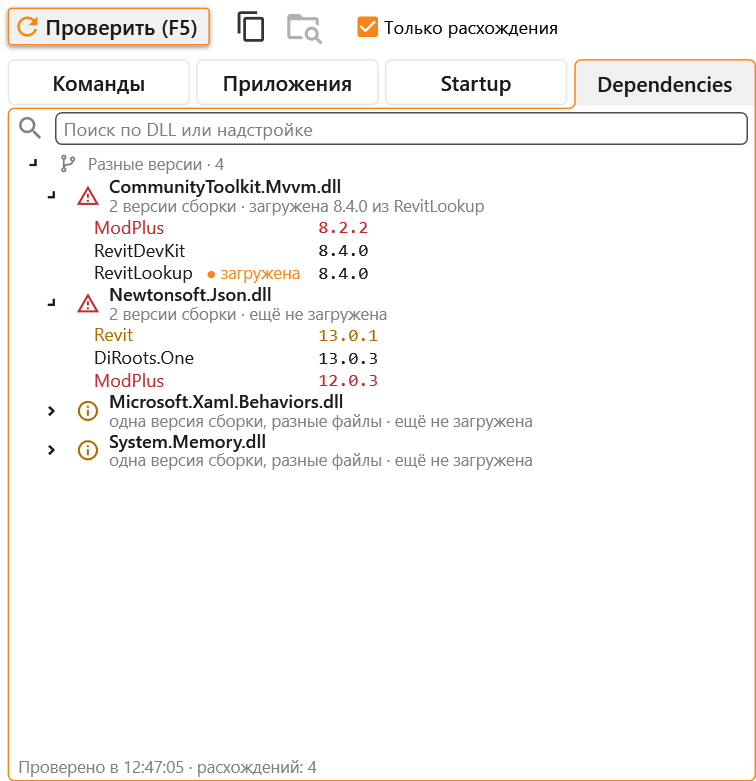
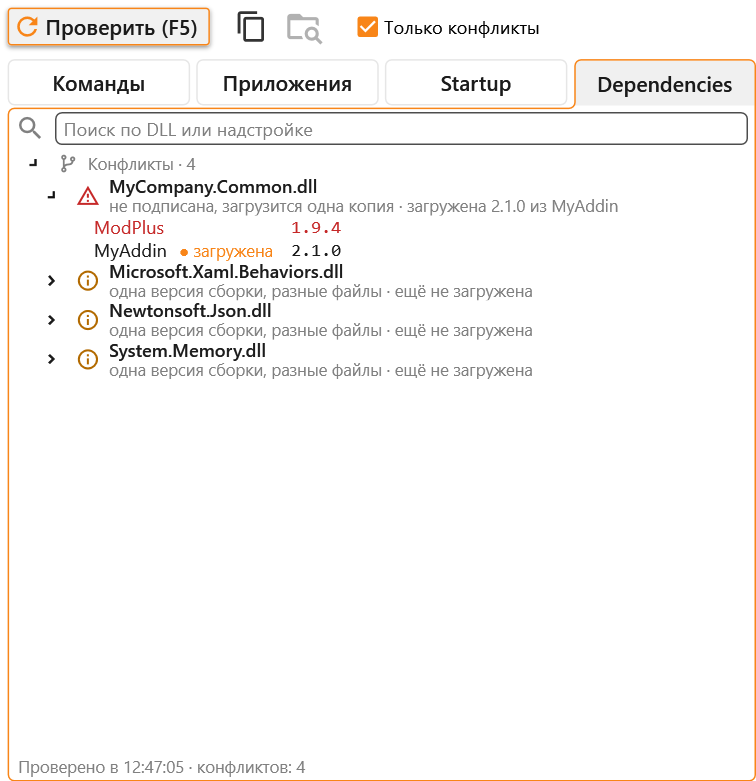
Dependencies: tell real conflicts from versions that load side by side
Different assembly versions are a conflict only when one copy goes to
everyone: the DLL has no strong name, or Revit.exe.config redirects it to
Revit's own version. Signed DLLs of different versions load side by side,
each add-in its own; they move to a "Загрузятся рядом" section shown with
the "Только конфликты" box cleared.

The public key token is read from the header, the redirects from
Revit.exe.config. Each DLL says why it is in its section, the copies say
whether they are signed, and the report gets a "Почему" column. Both
READMEs and the screenshot follow.

Changed region(s): [[0.0913, 0.1844, 0.8214, 0.6146], [0.2434, 0.9526, 0.4259, 1.0], [0.578, 0.0307, 0.7302, 0.0615]]

diff --git a/source/UI/DllRunner/AssemblyRunnerWindow.xaml b/source/UI/DllRunner/AssemblyRunnerWindow.xaml
@@ -224,8 +224,8 @@
                 <materialDesign:PackIcon Kind="FolderSearchOutline" Width="25" Height="25" Foreground="{StaticResource IconBrush}"/>
             </Button>
 
-            <CheckBox VerticalAlignment="Center" Padding="2 0" Content="Только расхождения" Margin="20 0 0 0" IsChecked="{Binding Dependencies.OnlyProblems}"
-                      ToolTip="Снимите, чтобы видеть и DLL, одинаковые у нескольких надстроек"/>
+            <CheckBox VerticalAlignment="Center" Padding="2 0" Content="Только конфликты" Margin="20 0 0 0" IsChecked="{Binding Dependencies.OnlyProblems}"
+                      ToolTip="Снимите, чтобы видеть и подписанные DLL, которые загрузятся рядом, и одинаковые у нескольких надстроек"/>
         </StackPanel>
 
         <TabControl Margin="5 0 5 5" Style="{StaticResource FramedTabControl}" SelectedIndex="{Binding SelectedTabIndex}">
@@ -625,7 +625,7 @@
                             </TreeView.Resources>
                         </TreeView>
 
-                        <TextBlock Text="Расхождений нет" Foreground="Gray" HorizontalAlignment="Center" VerticalAlignment="Center" IsHitTestVisible="False"
+                        <TextBlock Text="Конфликтов нет" Foreground="Gray" HorizontalAlignment="Center" VerticalAlignment="Center" IsHitTestVisible="False"
                                    Visibility="{Binding Dependencies.IsEmpty, Converter={StaticResource BoolToVisibility}}"/>
                     </Grid>
                 </DockPanel>

diff --git a/source/Core/AddinDependencies.cs b/source/Core/AddinDependencies.cs
@@ -26,6 +26,10 @@ namespace RevitDevKit.Core
         // Set for a satellite assembly: the resources of one language.
         public string Culture { get; set; }
 
+        // Signed with a strong name: the version is part of its identity, so other versions load beside it.
+        public bool IsSigned => PublicKeyToken != null;
+        public string PublicKeyToken { get; set; }
+
         // Three parts, as Windows shows it: 4.600.24, 13.0.3. A dash when the file has no version.
         public string FileVersion { get; set; }
 
@@ -34,13 +38,17 @@ namespace RevitDevKit.Core
         public bool IsManaged => AssemblyName != null;
     }
 
+    // In order of how much it matters.
     public enum DependencyLevel
     {
         // The same versions everywhere.
         None,
-        // Only the file versions differ: one assembly version, so any copy fits every add-in.
+        // Signed, with different assembly versions and no redirect: every add-in loads its own, side by side.
+        SideBySide,
+        // Only the file versions differ: one assembly, one copy for all, usually fine.
         FileOnly,
-        // The assembly versions differ: Revit loads one copy, and an add-in built against another may fail.
+        // Different assembly versions that do not load side by side: not signed, so the first copy loaded goes to
+        // everyone, or redirected by Revit to its own version. An add-in built against another may fail.
         Assembly
     }
 
@@ -65,6 +73,9 @@ namespace RevitDevKit.Core
         public string FileName { get; set; }
         public List<DllCopy> Copies { get; set; } = new List<DllCopy>();
         public DependencyLevel Level { get; set; }
+
+        // Revit.exe.config sends every request for this assembly to this version.
+        public Version RedirectedTo { get; set; }
 
         // What this session of Revit has loaded under this name, and from where.
         public List<LoadedCopy> Loaded { get; set; } = new List<LoadedCopy>();
@@ -199,6 +210,7 @@ namespace RevitDevKit.Core
                     Add(copies, new DllCopy { Owner = RevitOwner, Dll = Read(revitCopy) });
             }
 
+            var redirects = Redirects(Path.Combine(revitFolder, "Revit.exe.config"));
             var modules = new HashSet<string>(loadedModules ?? new string[0], StringComparer.OrdinalIgnoreCase);
             foreach (var list in copies.Values)
             {
@@ -210,11 +222,21 @@ namespace RevitDevKit.Core
                     Copies = list.OrderBy(c => c.Owner == RevitOwner ? 0 : 1).ThenBy(c => c.Owner, StringComparer.OrdinalIgnoreCase).ToList()
                 };
                 var distinct = list.GroupBy(c => c.Dll.Path, StringComparer.OrdinalIgnoreCase).Select(g => g.First().Dll).ToList();
-                group.Level = distinct.All(d => d.IsManaged) && distinct.Select(d => d.AssemblyVersion).Distinct().Count() > 1 ? DependencyLevel.Assembly
-                    : distinct.Select(d => d.FileVersion).Distinct().Count() > 1 ? DependencyLevel.FileOnly
-                    : DependencyLevel.None;
-
                 var simpleName = distinct.FirstOrDefault(d => d.IsManaged)?.AssemblyName;
+                if (simpleName != null && redirects.TryGetValue(simpleName, out var redirectedTo))
+                    group.RedirectedTo = redirectedTo;
+
+                var managed = distinct.All(d => d.IsManaged);
+                if (managed && distinct.Select(d => d.AssemblyVersion).Distinct().Count() > 1)
+                {
+                    // Signed versions are different assemblies to .NET and load side by side, unless Revit redirects them.
+                    group.Level = distinct.All(d => d.IsSigned) && group.RedirectedTo == null ? DependencyLevel.SideBySide : DependencyLevel.Assembly;
+                }
+                else
+                {
+                    group.Level = distinct.Select(d => d.FileVersion).Distinct().Count() > 1 ? DependencyLevel.FileOnly : DependencyLevel.None;
+                }
+
                 var loadedPaths = simpleName != null && loadedByName.TryGetValue(simpleName, out var paths) ? paths
                     : modules.Where(m => string.Equals(Path.GetFileName(m), group.FileName, StringComparison.OrdinalIgnoreCase)).ToList();
                 foreach (var path in loadedPaths.Distinct(StringComparer.OrdinalIgnoreCase))
@@ -229,6 +251,47 @@ namespace RevitDevKit.Core
 
             report.Groups = report.Groups.OrderByDescending(g => g.Level).ThenBy(g => g.FileName, StringComparer.OrdinalIgnoreCase).ToList();
             return report;
+        }
+
+        // <bindingRedirect> of Revit.exe.config: the assembly name and the version Revit gives everyone instead.
+        private static Dictionary<string, Version> Redirects(string configPath)
+        {
+            var result = new Dictionary<string, Version>(StringComparer.OrdinalIgnoreCase);
+            try
+            {
+                if (!File.Exists(configPath)) return result;
+                foreach (var dependent in System.Xml.Linq.XDocument.Load(configPath).Descendants().Where(e => e.Name.LocalName == "dependentAssembly"))
+                {
+                    var name = (string)dependent.Elements().FirstOrDefault(e => e.Name.LocalName == "assemblyIdentity")?.Attribute("name");
+                    var version = (string)dependent.Elements().FirstOrDefault(e => e.Name.LocalName == "bindingRedirect")?.Attribute("newVersion");
+                    if (!string.IsNullOrEmpty(name) && Version.TryParse(version, out var parsed))
+                        result[name] = parsed;
+                }
+            }
+            catch (Exception)
+            {
+                // An unreadable config: no redirects are known.
+            }
+
+            return result;
+        }
+
+        // Why the DLL is where it is, in a few words for the tab and the report.
+        public static string Reason(VersionGroup group)
+        {
+            switch (group.Level)
+            {
+                case DependencyLevel.Assembly:
+                    return group.RedirectedTo != null
+                        ? "Revit перенаправляет на " + group.RedirectedTo
+                        : "не подписана, загрузится одна копия";
+                case DependencyLevel.SideBySide:
+                    return "подписана, загрузятся обе версии";
+                case DependencyLevel.FileOnly:
+                    return group.Copies.All(c => c.Dll.IsManaged) ? "одна версия сборки, разные файлы" : "разные версии файла";
+                default:
+                    return "одинаковые версии";
+            }
         }
 
         // A language's resources (X.resources.dll, a culture in the header) are not another version of anything,
@@ -308,6 +371,7 @@ namespace RevitDevKit.Core
                             info.AssemblyName = metadata.GetString(definition.Name);
                             info.AssemblyVersion = definition.Version;
                             info.Culture = metadata.GetString(definition.Culture);
+                            info.PublicKeyToken = TokenOf(metadata.GetBlobBytes(definition.PublicKey));
                         }
 
                         info.References = metadata.AssemblyReferences
@@ -324,6 +388,17 @@ namespace RevitDevKit.Core
 
             Cache[path] = Tuple.Create(stamp, info);
             return info;
+        }
+
+        // The token .NET shows in an assembly's full name: the last 8 bytes of the key's SHA-1, reversed. Null if unsigned.
+        private static string TokenOf(byte[] publicKey)
+        {
+            if (publicKey == null || publicKey.Length == 0) return null;
+            using (var sha1 = System.Security.Cryptography.SHA1.Create())
+            {
+                var hash = sha1.ComputeHash(publicKey);
+                return string.Concat(hash.Skip(hash.Length - 8).Reverse().Select(b => b.ToString("x2")));
+            }
         }
 
         private static string FileVersionOf(string path)
@@ -348,7 +423,7 @@ namespace RevitDevKit.Core
             text.AppendLine("### Revit " + (report.RevitVersion ?? "") + ": версии DLL у надстроек (" + report.CheckedAt.ToString("yyyy-MM-dd HH:mm") + ")");
             text.AppendLine();
 
-            var groups = report.Groups.Where(g => !onlyProblems || g.Level != DependencyLevel.None).ToList();
+            var groups = report.Groups.Where(g => !onlyProblems || g.Level == DependencyLevel.Assembly || g.Level == DependencyLevel.FileOnly).ToList();
             if (groups.Count == 0)
             {
                 text.AppendLine("Расхождений нет.");
@@ -357,12 +432,8 @@ namespace RevitDevKit.Core
 
             var owners = groups.SelectMany(g => g.Copies.Select(c => c.Owner)).Distinct()
                 .OrderBy(o => o == RevitOwner ? 0 : 1).ThenBy(o => o, StringComparer.OrdinalIgnoreCase).ToList();
-            var header = new[] { "DLL", "Расхождение" }.Concat(owners).Concat(new[] { "Загружена" }).ToArray();
-            Table(text, header, groups.Select(g => new[]
-                {
-                    g.FileName,
-                    g.Level == DependencyLevel.Assembly ? "версия сборки" : g.Level == DependencyLevel.FileOnly ? "версия файла" : "нет"
-                }
+            var header = new[] { "DLL", "Почему" }.Concat(owners).Concat(new[] { "Загружена" }).ToArray();
+            Table(text, header, groups.Select(g => new[] { g.FileName, Reason(g) }
                 .Concat(owners.Select(o => g.Copies.FirstOrDefault(c => c.Owner == o)?.Dll.FileVersion ?? "-"))
                 .Concat(new[] { g.Loaded.Count == 0 ? "-" : string.Join(", ", g.Loaded.Select(l => l.FileVersion + " (" + (l.Owner ?? l.Path) + ")")) })
                 .ToArray()));

diff --git a/source/UI/DllRunner/DependenciesVM.cs b/source/UI/DllRunner/DependenciesVM.cs
@@ -65,12 +65,18 @@ namespace RevitDevKit.UI.DllRunner
             IsExpanded = expanded;
             _onExpanded = onExpanded;
 
-            // Each copy is compared with the one loaded now, or with the newest when none is loaded yet.
+            // Each copy is compared with the version everyone gets: the one Revit redirects to, the one loaded now,
+            // or the newest when none is loaded yet. Copies that load side by side are all fine.
             var reference = group.Loaded.Count > 0 && File.Exists(group.Loaded[0].Path)
                 ? AddinDependencies.Read(group.Loaded[0].Path)
                 : group.Copies.Select(c => c.Dll).OrderByDescending(d => d.AssemblyVersion).ThenByDescending(d => d.FileVersion).First();
             foreach (var copy in group.Copies)
-                Children.Add(new DllCopyVM(copy, Compare(copy.Dll, reference), onSelected));
+            {
+                var severity = group.Level == DependencyLevel.SideBySide || group.Level == DependencyLevel.None ? Severity.Normal
+                    : group.RedirectedTo != null ? (copy.Dll.AssemblyVersion == group.RedirectedTo ? Severity.Normal : Severity.Critical)
+                    : Compare(copy.Dll, reference);
+                Children.Add(new DllCopyVM(copy, severity, onSelected));
+            }
         }
 
         public VersionGroup Group { get; }
@@ -80,20 +86,15 @@ namespace RevitDevKit.UI.DllRunner
             : Group.Level == DependencyLevel.FileOnly ? Severity.Minor
             : Severity.Normal;
 
+        // Why it is in its section, then what is loaded now.
         public string Summary
         {
             get
             {
-                var dlls = Group.Copies.Select(c => c.Dll).ToList();
-                var versions = Group.Level == DependencyLevel.Assembly
-                    ? Plural(dlls.Select(d => d.AssemblyVersion).Distinct().Count(), "версия сборки", "версии сборки", "версий сборки")
-                    : Group.Level == DependencyLevel.FileOnly
-                        ? dlls.All(d => d.IsManaged) ? "одна версия сборки, разные файлы" : "разные версии файла"
-                        : "одинаковые версии";
                 var loaded = Group.Loaded.Count == 0
                     ? "ещё не загружена"
                     : "загружена " + string.Join(" и ", Group.Loaded.Select(l => l.FileVersion + " из " + (l.Owner ?? Path.GetDirectoryName(l.Path))));
-                return versions + " · " + loaded;
+                return AddinDependencies.Reason(Group) + " · " + loaded;
             }
         }
 
@@ -112,14 +113,6 @@ namespace RevitDevKit.UI.DllRunner
             if (copy.IsManaged && reference.IsManaged && copy.AssemblyVersion != reference.AssemblyVersion) return Severity.Critical;
             return copy.FileVersion != reference.FileVersion ? Severity.Minor : Severity.Normal;
         }
-
-        private static string Plural(int n, string one, string few, string many)
-        {
-            var tens = n % 100;
-            var units = n % 10;
-            var word = tens >= 11 && tens <= 14 ? many : units == 1 ? one : units >= 2 && units <= 4 ? few : many;
-            return n + " " + word;
-        }
     }
 
     public sealed class DllCopyVM : DependencyNodeVM
@@ -137,7 +130,9 @@ namespace RevitDevKit.UI.DllRunner
         public bool IsLoaded => Copy.IsLoaded;
 
         public string ToolTip => Copy.Dll.Path + "\nВерсия файла " + Copy.Dll.FileVersion
-                                 + (Copy.Dll.IsManaged ? ", версия сборки " + Copy.Dll.AssemblyVersion : ", нативная DLL");
+                                 + (!Copy.Dll.IsManaged ? ", нативная DLL"
+                                     : ", версия сборки " + Copy.Dll.AssemblyVersion
+                                       + (Copy.Dll.IsSigned ? ", подписана (" + Copy.Dll.PublicKeyToken + ")" : ", не подписана"));
 
         public override string FilePath => Copy.Dll.Path;
     }
@@ -214,8 +209,8 @@ namespace RevitDevKit.UI.DllRunner
             CopyReportCommand.NotifyCanExecuteChanged();
             IsBusy = false;
 
-            var problems = report.Groups.Count(g => g.Level != DependencyLevel.None);
-            Status = "Проверено в " + report.CheckedAt.ToString("HH:mm:ss") + " · " + (problems == 0 ? "расхождений нет" : "расхождений: " + problems);
+            var conflicts = report.Groups.Count(IsConflict);
+            Status = "Проверено в " + report.CheckedAt.ToString("HH:mm:ss") + " · " + (conflicts == 0 ? "конфликтов нет" : "конфликтов: " + conflicts);
             Rebuild();
         }
 
@@ -271,12 +266,19 @@ namespace RevitDevKit.UI.DllRunner
             var query = SearchText?.Trim() ?? string.Empty;
             bool Matches(params string[] values) => query.Length == 0 || values.Any(v => v != null && v.IndexOf(query, StringComparison.OrdinalIgnoreCase) >= 0);
 
-            AddGroups("Разные версии", "SourceBranch", g => g.Level != DependencyLevel.None, Matches);
+            // Conflicts always; with the box cleared, also what loads side by side and what is the same everywhere.
+            AddGroups("Конфликты", "SourceBranch", IsConflict, Matches);
             if (!OnlyProblems)
+            {
+                AddGroups("Загрузятся рядом", "LayersOutline", g => g.Level == DependencyLevel.SideBySide, Matches);
                 AddGroups("Одинаковые у нескольких", "CheckAll", g => g.Level == DependencyLevel.None, Matches);
+            }
 
             IsEmpty = Sections.Count == 0;
         }
+
+        private static bool IsConflict(VersionGroup group) =>
+            group.Level == DependencyLevel.Assembly || group.Level == DependencyLevel.FileOnly;
 
         private void AddGroups(string title, string icon, Func<VersionGroup, bool> which, Func<string[], bool> matches)
         {

diff --git a/README.md b/README.md
@@ -106,9 +106,13 @@ Under each name is what the file contains and its DLL, and in red what is wrong:
 
 <img src="assets/dll-runner-dependencies.png" width="520" alt="DLL Runner, the Dependencies tab" />
 
-This tab finds DLLs that several add-ins of the running Revit version, or an add-in and Revit itself, bring in different versions. All add-ins run in one Revit process, and a library is loaded once, usually from whichever add-in needs it first, so the others get that copy too. Red means the assembly versions differ, and the loaded copy may not suit the others. Orange means only the file version differs, which is usually harmless. The copy loaded in this session is marked.
+This tab finds DLLs that several add-ins of the running Revit version, or an add-in and Revit itself, bring in different versions, and shows which of them really clash in the one Revit process they all share:
 
-An add-in's DLLs are the ones in the folder of its assembly, read from their headers without loading them. Language resources (folders such as `en-US` and `*.resources.dll`) are left out: they are the same DLL in another language. The copy button puts a markdown report on the clipboard.
+- **Red**: the assembly versions differ, and only one copy loads, the first one, for everyone. That is what happens to a DLL without a strong name, and to one that Revit redirects to its own version in `Revit.exe.config`. An add-in built against another version may fail.
+- **Orange**: the assembly version is the same and only the file differs, so all add-ins share one copy. Usually harmless.
+- With **Только конфликты** (conflicts only) cleared, signed DLLs of different versions show too: .NET loads each add-in its own version, side by side.
+
+The copy loaded in this session is marked. An add-in's DLLs are the ones in the folder of its assembly, read from their headers without loading them. Language resources (folders such as `en-US` and `*.resources.dll`) are left out: they are the same DLL in another language. The copy button puts a markdown report on the clipboard.
 
 ## Console
 
